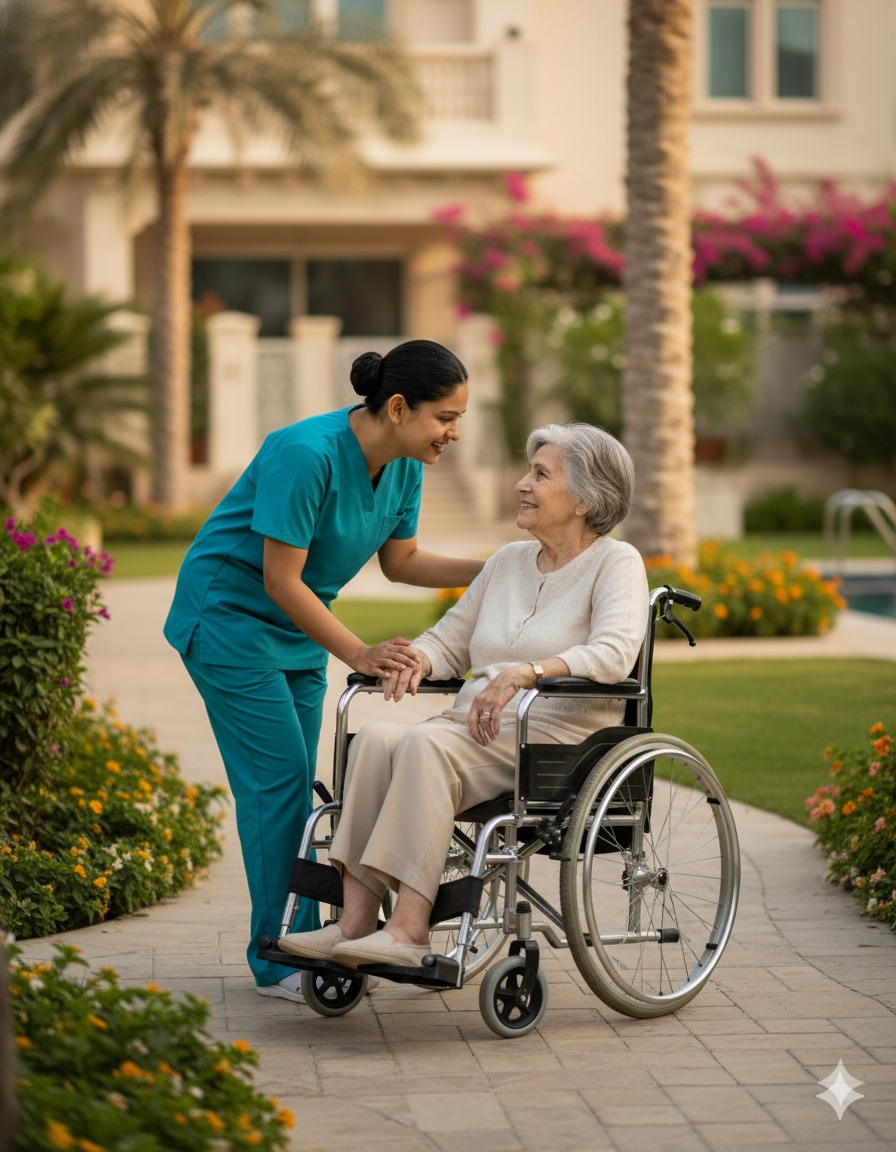
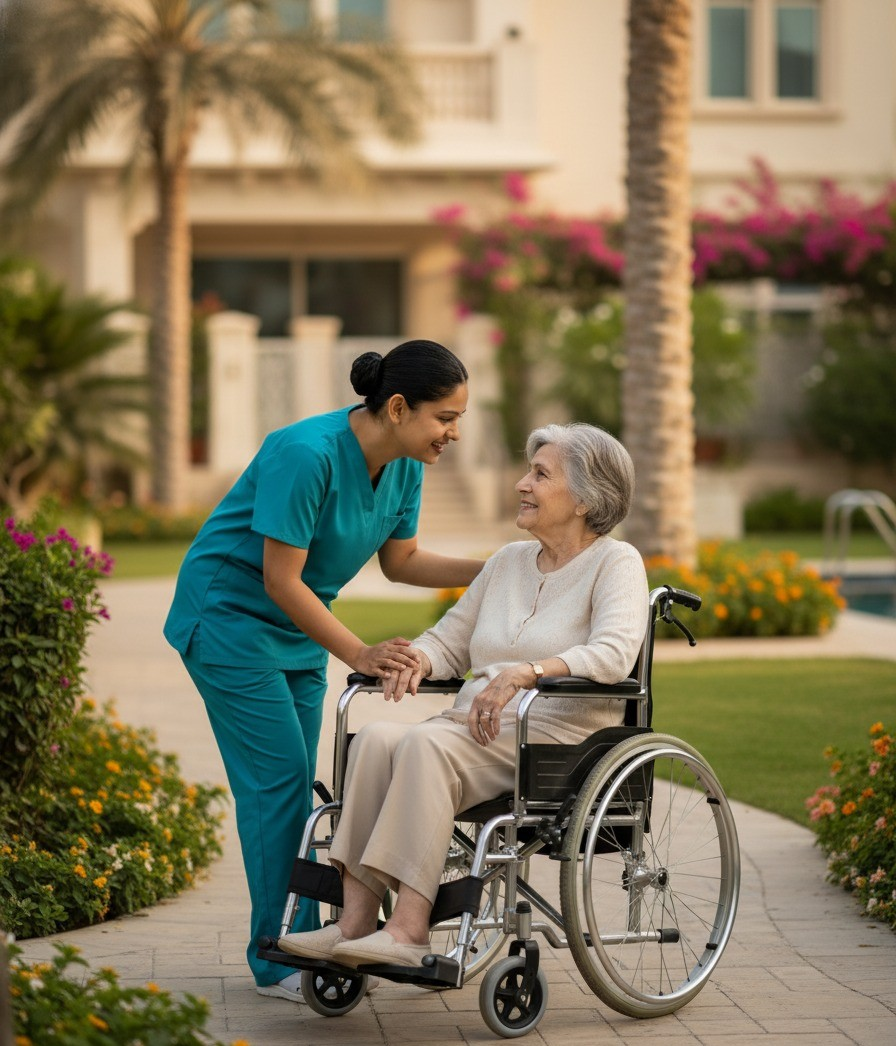
Updated about page design

diff --git a/contact.html b/contact.html
@@ -270,7 +270,7 @@
             <h3 style="font-size:20px; margin-bottom:12px; color:var(--teal)">Timely Service</h3>
             <p style="color:var(--text); line-height:1.8; margin:0">
               24/7 home healthcare services.<br>
-              <a href="tel:+971589477102" style="color:var(--teal); font-weight:600; text-decoration:none">Call 589477102</a>
+              <a href="tel:+971589477102" style="color:var(--teal); font-weight:600; text-decoration:none">Call 058-9477102</a>
             </p>
           </div>
           <div class="innovative-card reveal from-bottom" style="--reveal-delay:.2s; text-align:center; padding:36px 28px">

diff --git a/about.html b/about.html
@@ -83,7 +83,7 @@
     <section class="section" id="about-detailed">
       <div class="container split">
         <div class="image-overlay reveal from-left" style="--reveal-delay:.2s">
-          <img src="images/About us image.jpg" alt="About TrueLife" />
+          <img src="images/Coordinated.jpg" alt="About TrueLife" />
           <div class="overlay">
             <div>
               <h3 class="m-0">Caring Professionals</h3>
